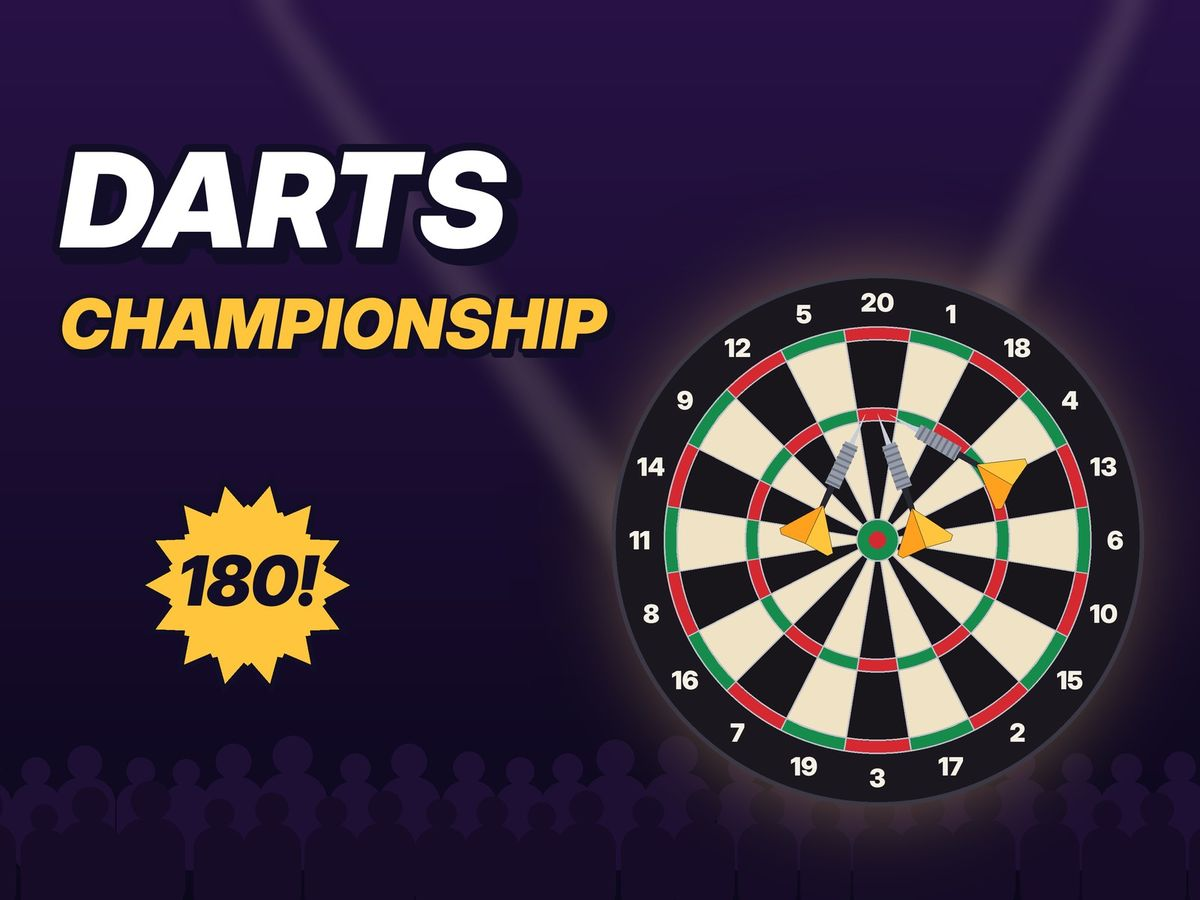
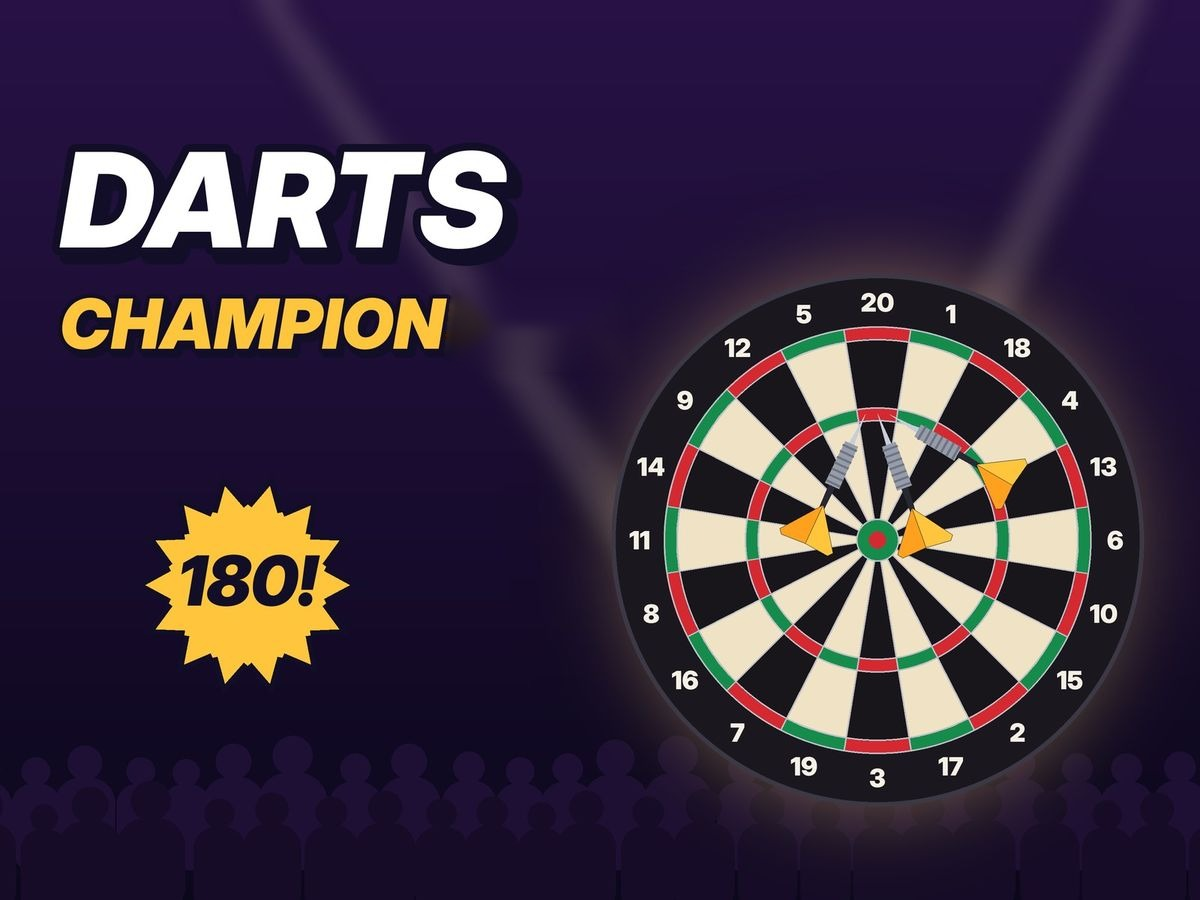
Rename Darts Championship to Darts Champion
Claude-Session: https://claude.ai/code/session_01JWoKRFRZeu9Fmhc6oknHpL

Changed region(s): [[0.37, 0.3111, 0.5242, 0.4044]]

diff --git a/index.html b/index.html
@@ -584,8 +584,8 @@ section h2.sh small { font-family: var(--body); font-weight: 800; font-size: .8r
 <script>
 // Reviews storage: paste your Supabase Project URL and publishable (anon) key here.
 const REVIEWS_DB = { url: "https://mwlnnyjdnyorqrqgauny.supabase.co", key: "sb_publishable_UVwCZhYIxuXzhfC7uebIPg_6JY0o6TN" };
-const GAMES = [{"id": "track-star-3d", "title": "Track Star 3D", "status": "Play now", "genre": "Runner", "platforms": ["Android", "iPhone"], "color": "#1fa35b", "cover": "cover-track-star-3d.jpg", "play": "https://2rmphggd5z-ux.github.io/Track-star-/track-dash.html", "tagline": "Dash down the train tracks, dodge the trains and grab every coin.", "about": "An endless 3D runner. Race along busy train lines, pick from 8 runners, finish missions for coins and power up with the jetpack, coin magnet and super sneakers.", "howto": [["Swipe ← →", "Change lanes and dodge the trains"], ["Swipe ↑", "Jump over orange barriers"], ["Swipe ↓", "Slide under yellow bars"], ["Ramps", "Run up them to ride on the train roofs"], ["Red trains", "They drive towards you, so get out of their lane"]], "board": {"what": "Best score in one run", "unit": "pts"}}, {"id": "army-rush", "title": "Army Rush", "status": "Play now", "genre": "Runner", "platforms": ["Browser"], "color": "#ff5a3c", "cover": "cover-army-rush.jpg", "play": "https://2rmphggd5z-ux.github.io/Army-Rush-Shooter/", "tagline": "Grow your army through the gates, then beat the boss at the finish.", "about": "A 3D troop-runner. Your soldiers run and shoot by themselves, so pick the right gates, dodge the traps and take on four bosses across four worlds.", "howto": [["Swipe ← →", "Steer your army (arrow keys on a computer)"], ["Blue & green gates", "Grow your army: +10, ×2, ×3"], ["Red gates", "Shrink your army, so steer around them"], ["Traps & robots", "Dodge saw blades, spikes and orange blasts"], ["Bonus runway", "Get as far as you can to multiply your coins"]], "board": {"what": "Highest level cleared", "unit": "level"}}, {"id": "street-to-superstar", "title": "Street to Superstar", "status": "Play now", "genre": "Sports", "platforms": ["Android", "iPhone", "Browser"], "color": "#2f4bff", "cover": "cover-street-to-superstar.jpg", "play": "street-to-superstar.html", "tagline": "A 3D basketball career, from street courts to superstar.", "about": "Start on the street courts and work your way to the arena. Win five leagues, beat a named rival in every league final, upgrade your player and unlock new courts, balls, jerseys and sneakers. Modes: Career, Practice, 60-Second Challenge and Long Range.", "howto": [["Press and hold", "The white marker glides up the power bar"], ["Let go in the green", "A perfect shot every time"], ["Yellow / red", "Yellow might rattle in, red misses"], ["3 in a row", "You're on fire: points ×2"], ["Save backup", "Settings › Save backup moves your progress to another phone"]], "board": {"what": "Best 60-Second Challenge score", "unit": "pts"}}, {"id": "quick-chaos", "title": "Quick Chaos", "status": "Coming soon", "genre": "Party", "platforms": ["Android"], "color": "#8b3dff", "cover": "cover-quick-chaos.jpg", "play": "", "tagline": "A casual multiplayer party game for Android.", "about": "Grab your friends for fast, chaotic party rounds.", "howto": []}, {"id": "darts-championship", "title": "Darts Championship", "status": "Coming soon", "genre": "Sports", "platforms": ["Browser"], "color": "#3a1a6e", "cover": "cover-darts-championship.jpg", "play": "", "tagline": "Step up to the oche and chase the perfect 180.", "about": "A darts game for your browser, coming soon to HhGames.", "howto": []}];
-const NEWS = [["2026-10-21", "Coming soon: Darts Championship. Chase the perfect 180."], ["2026-10-21", "Leaderboards are live. Beat your best in Track Star 3D, Army Rush or Street to Superstar and add your name."], ["2026-10-21", "Every game now shows how many times it's been played."], ["2026-10-21", "Street to Superstar is playable right here on HhGames."], ["2026-10-21", "Reviews are open. Rate any game out of 5 stars."]];
+const GAMES = [{"id": "track-star-3d", "title": "Track Star 3D", "status": "Play now", "genre": "Runner", "platforms": ["Android", "iPhone"], "color": "#1fa35b", "cover": "cover-track-star-3d.jpg", "play": "https://2rmphggd5z-ux.github.io/Track-star-/track-dash.html", "tagline": "Dash down the train tracks, dodge the trains and grab every coin.", "about": "An endless 3D runner. Race along busy train lines, pick from 8 runners, finish missions for coins and power up with the jetpack, coin magnet and super sneakers.", "howto": [["Swipe ← →", "Change lanes and dodge the trains"], ["Swipe ↑", "Jump over orange barriers"], ["Swipe ↓", "Slide under yellow bars"], ["Ramps", "Run up them to ride on the train roofs"], ["Red trains", "They drive towards you, so get out of their lane"]], "board": {"what": "Best score in one run", "unit": "pts"}}, {"id": "army-rush", "title": "Army Rush", "status": "Play now", "genre": "Runner", "platforms": ["Browser"], "color": "#ff5a3c", "cover": "cover-army-rush.jpg", "play": "https://2rmphggd5z-ux.github.io/Army-Rush-Shooter/", "tagline": "Grow your army through the gates, then beat the boss at the finish.", "about": "A 3D troop-runner. Your soldiers run and shoot by themselves, so pick the right gates, dodge the traps and take on four bosses across four worlds.", "howto": [["Swipe ← →", "Steer your army (arrow keys on a computer)"], ["Blue & green gates", "Grow your army: +10, ×2, ×3"], ["Red gates", "Shrink your army, so steer around them"], ["Traps & robots", "Dodge saw blades, spikes and orange blasts"], ["Bonus runway", "Get as far as you can to multiply your coins"]], "board": {"what": "Highest level cleared", "unit": "level"}}, {"id": "street-to-superstar", "title": "Street to Superstar", "status": "Play now", "genre": "Sports", "platforms": ["Android", "iPhone", "Browser"], "color": "#2f4bff", "cover": "cover-street-to-superstar.jpg", "play": "street-to-superstar.html", "tagline": "A 3D basketball career, from street courts to superstar.", "about": "Start on the street courts and work your way to the arena. Win five leagues, beat a named rival in every league final, upgrade your player and unlock new courts, balls, jerseys and sneakers. Modes: Career, Practice, 60-Second Challenge and Long Range.", "howto": [["Press and hold", "The white marker glides up the power bar"], ["Let go in the green", "A perfect shot every time"], ["Yellow / red", "Yellow might rattle in, red misses"], ["3 in a row", "You're on fire: points ×2"], ["Save backup", "Settings › Save backup moves your progress to another phone"]], "board": {"what": "Best 60-Second Challenge score", "unit": "pts"}}, {"id": "quick-chaos", "title": "Quick Chaos", "status": "Coming soon", "genre": "Party", "platforms": ["Android"], "color": "#8b3dff", "cover": "cover-quick-chaos.jpg", "play": "", "tagline": "A casual multiplayer party game for Android.", "about": "Grab your friends for fast, chaotic party rounds.", "howto": []}, {"id": "darts-championship", "title": "Darts Champion", "status": "Coming soon", "genre": "Sports", "platforms": ["Browser"], "color": "#3a1a6e", "cover": "cover-darts-championship.jpg", "play": "", "tagline": "Step up to the oche and chase the perfect 180.", "about": "A darts game for your browser, coming soon to HhGames.", "howto": []}];
+const NEWS = [["2026-10-21", "Coming soon: Darts Champion. Chase the perfect 180."], ["2026-10-21", "Leaderboards are live. Beat your best in Track Star 3D, Army Rush or Street to Superstar and add your name."], ["2026-10-21", "Every game now shows how many times it's been played."], ["2026-10-21", "Street to Superstar is playable right here on HhGames."], ["2026-10-21", "Reviews are open. Rate any game out of 5 stars."]];
 (function () {
   const $ = (id) => document.getElementById(id);
   const isPlayable = (g) => !!g.play;
